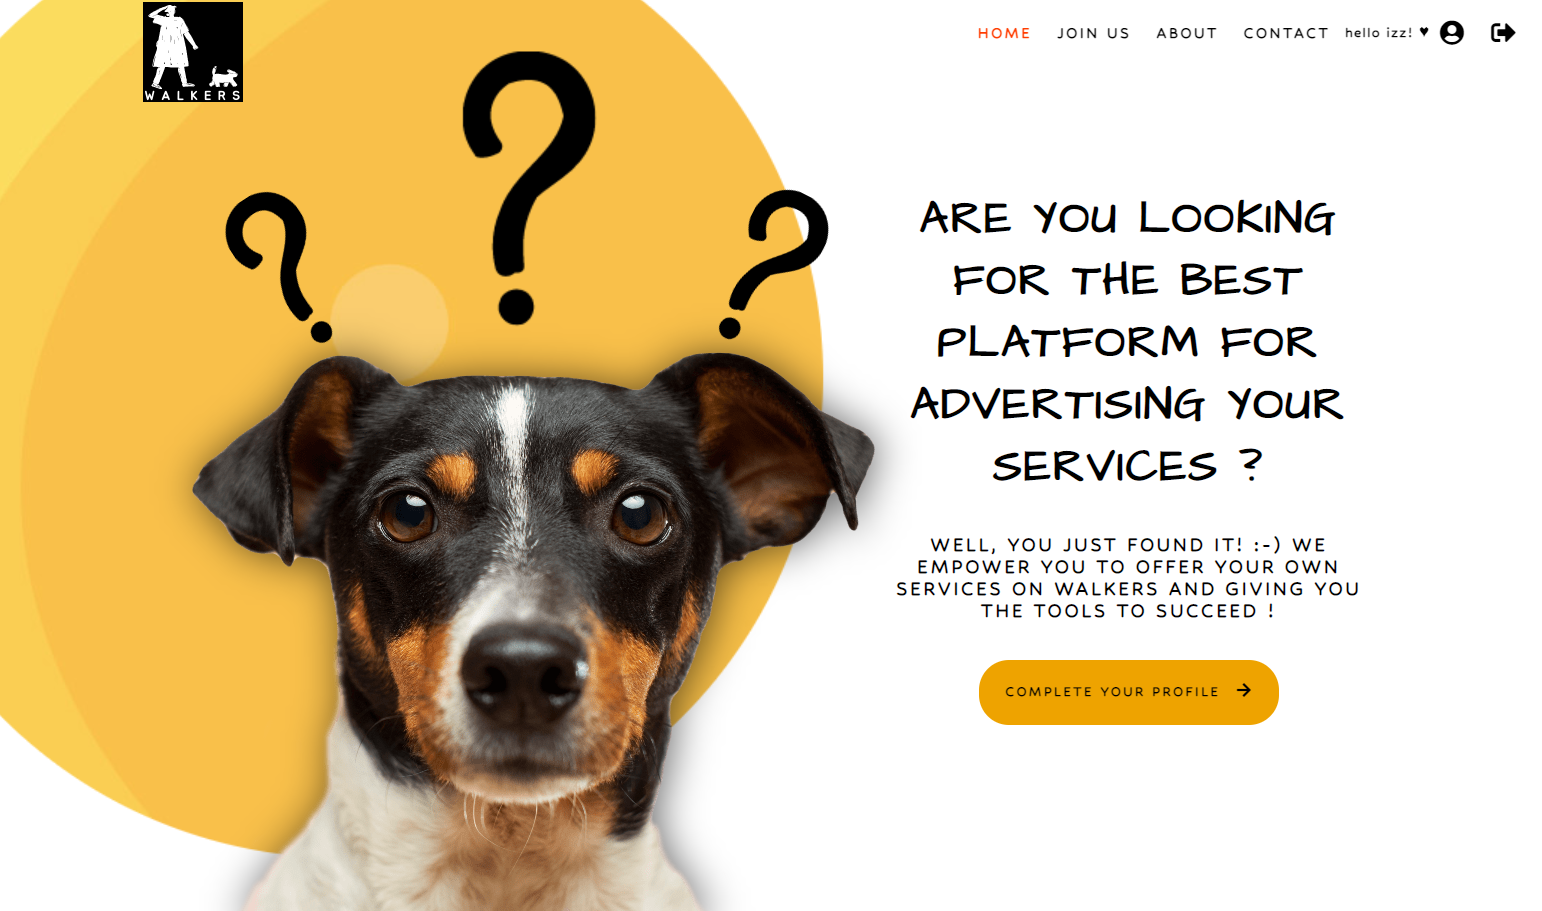
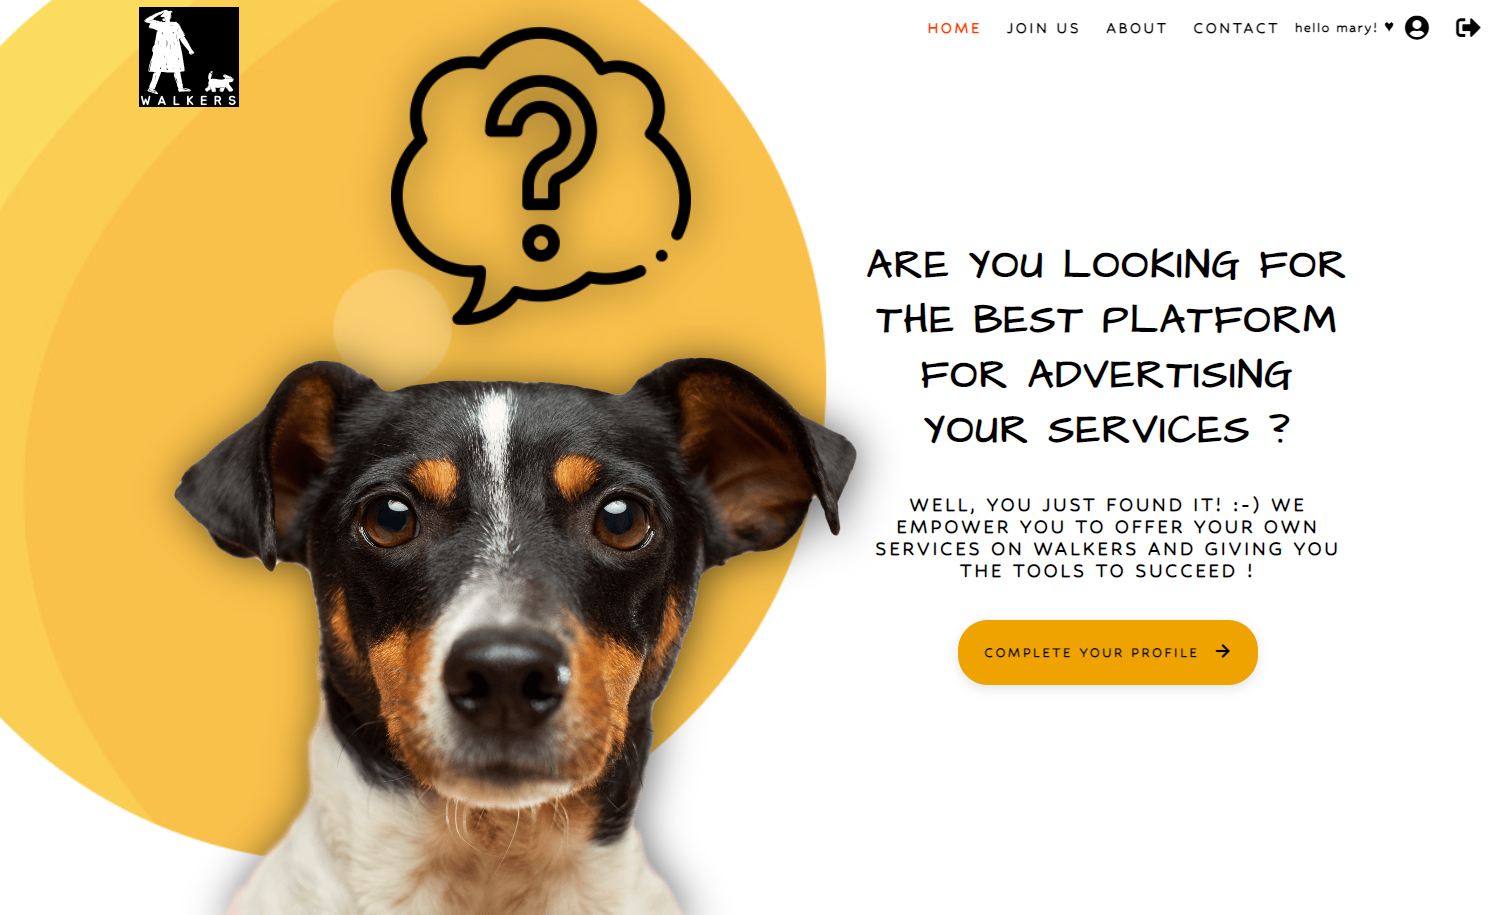
Swap images and correct some css and readme file

diff --git a/static/css/style.css b/static/css/style.css
@@ -635,7 +635,7 @@ h2 {
   height: 900px;
   width: 60%;
   position: absolute;
-  bottom: 0;
+
 }
 
 .home-dog-img {
@@ -3452,6 +3452,10 @@ label[for="id_newsletter_email"] {
       font-size: 25px;
     }
 
+    .main-image {
+      height: 800px;
+    }
+
     .heading h2 {
       font-size: 25px;
     }
@@ -3486,7 +3490,7 @@ label[for="id_newsletter_email"] {
     }
 
     .heart-2 {
-      top: 0;
+      top: 45px;
     }
 
     .home-bg-shape-1 {

diff --git a/README.md b/README.md
@@ -6,7 +6,7 @@
 
 ![mockup](/documents/responsive.png)
 
-Walkers - a platform for people who are both: looking for dog carers and for people providing such services in the whole UK.
+Walkers - a platform for people who are both: looking for dog carers and for people providing such services in the whole Great Britain.
 
 Using the principles of UX design, this fully responsive and interactive website was developed using HTML, CSS, JavaScript and Python as well as Django as a framework.
 
@@ -14,7 +14,8 @@ View live project here [link to deployed link](https://walkers88.herokuapp.com/)
 
 ## **CHECKING THE SEARCH FORM FUNCTIONALITY**
 
-The platform is to operate in the UK, and addresses from the Wolverhampton area were entered into the database.
+The platform is to operate in the UK, and only UK addresses may be entered in all address forms.
+The database contains addresses from the Wolverhampton area only.
 
 To check the search form functionality please:
 
@@ -24,6 +25,9 @@ To check the search form functionality please:
 - Click 'Create random addresses' button
 
 You can use the generated post code for the search form as your own.
+
+The created address can also be used to fill in the address form on the user profile page.
+
 
 ## **WALKER PROFILE SERVICE TYPES**
 

diff --git a/documents/features/features.md b/documents/features/features.md
@@ -273,3 +273,9 @@
 
     ![prices](/documents/toast.png)
 
+  - ### **Welcome Message:**
+
+    - After logging into the user account, a welcome message appears in the navigation bar.
+    - If the user does not enter their first name, only "hello" without a first name will be displayed.
+
+    ![prices](/documents/welcome-msg.png)
